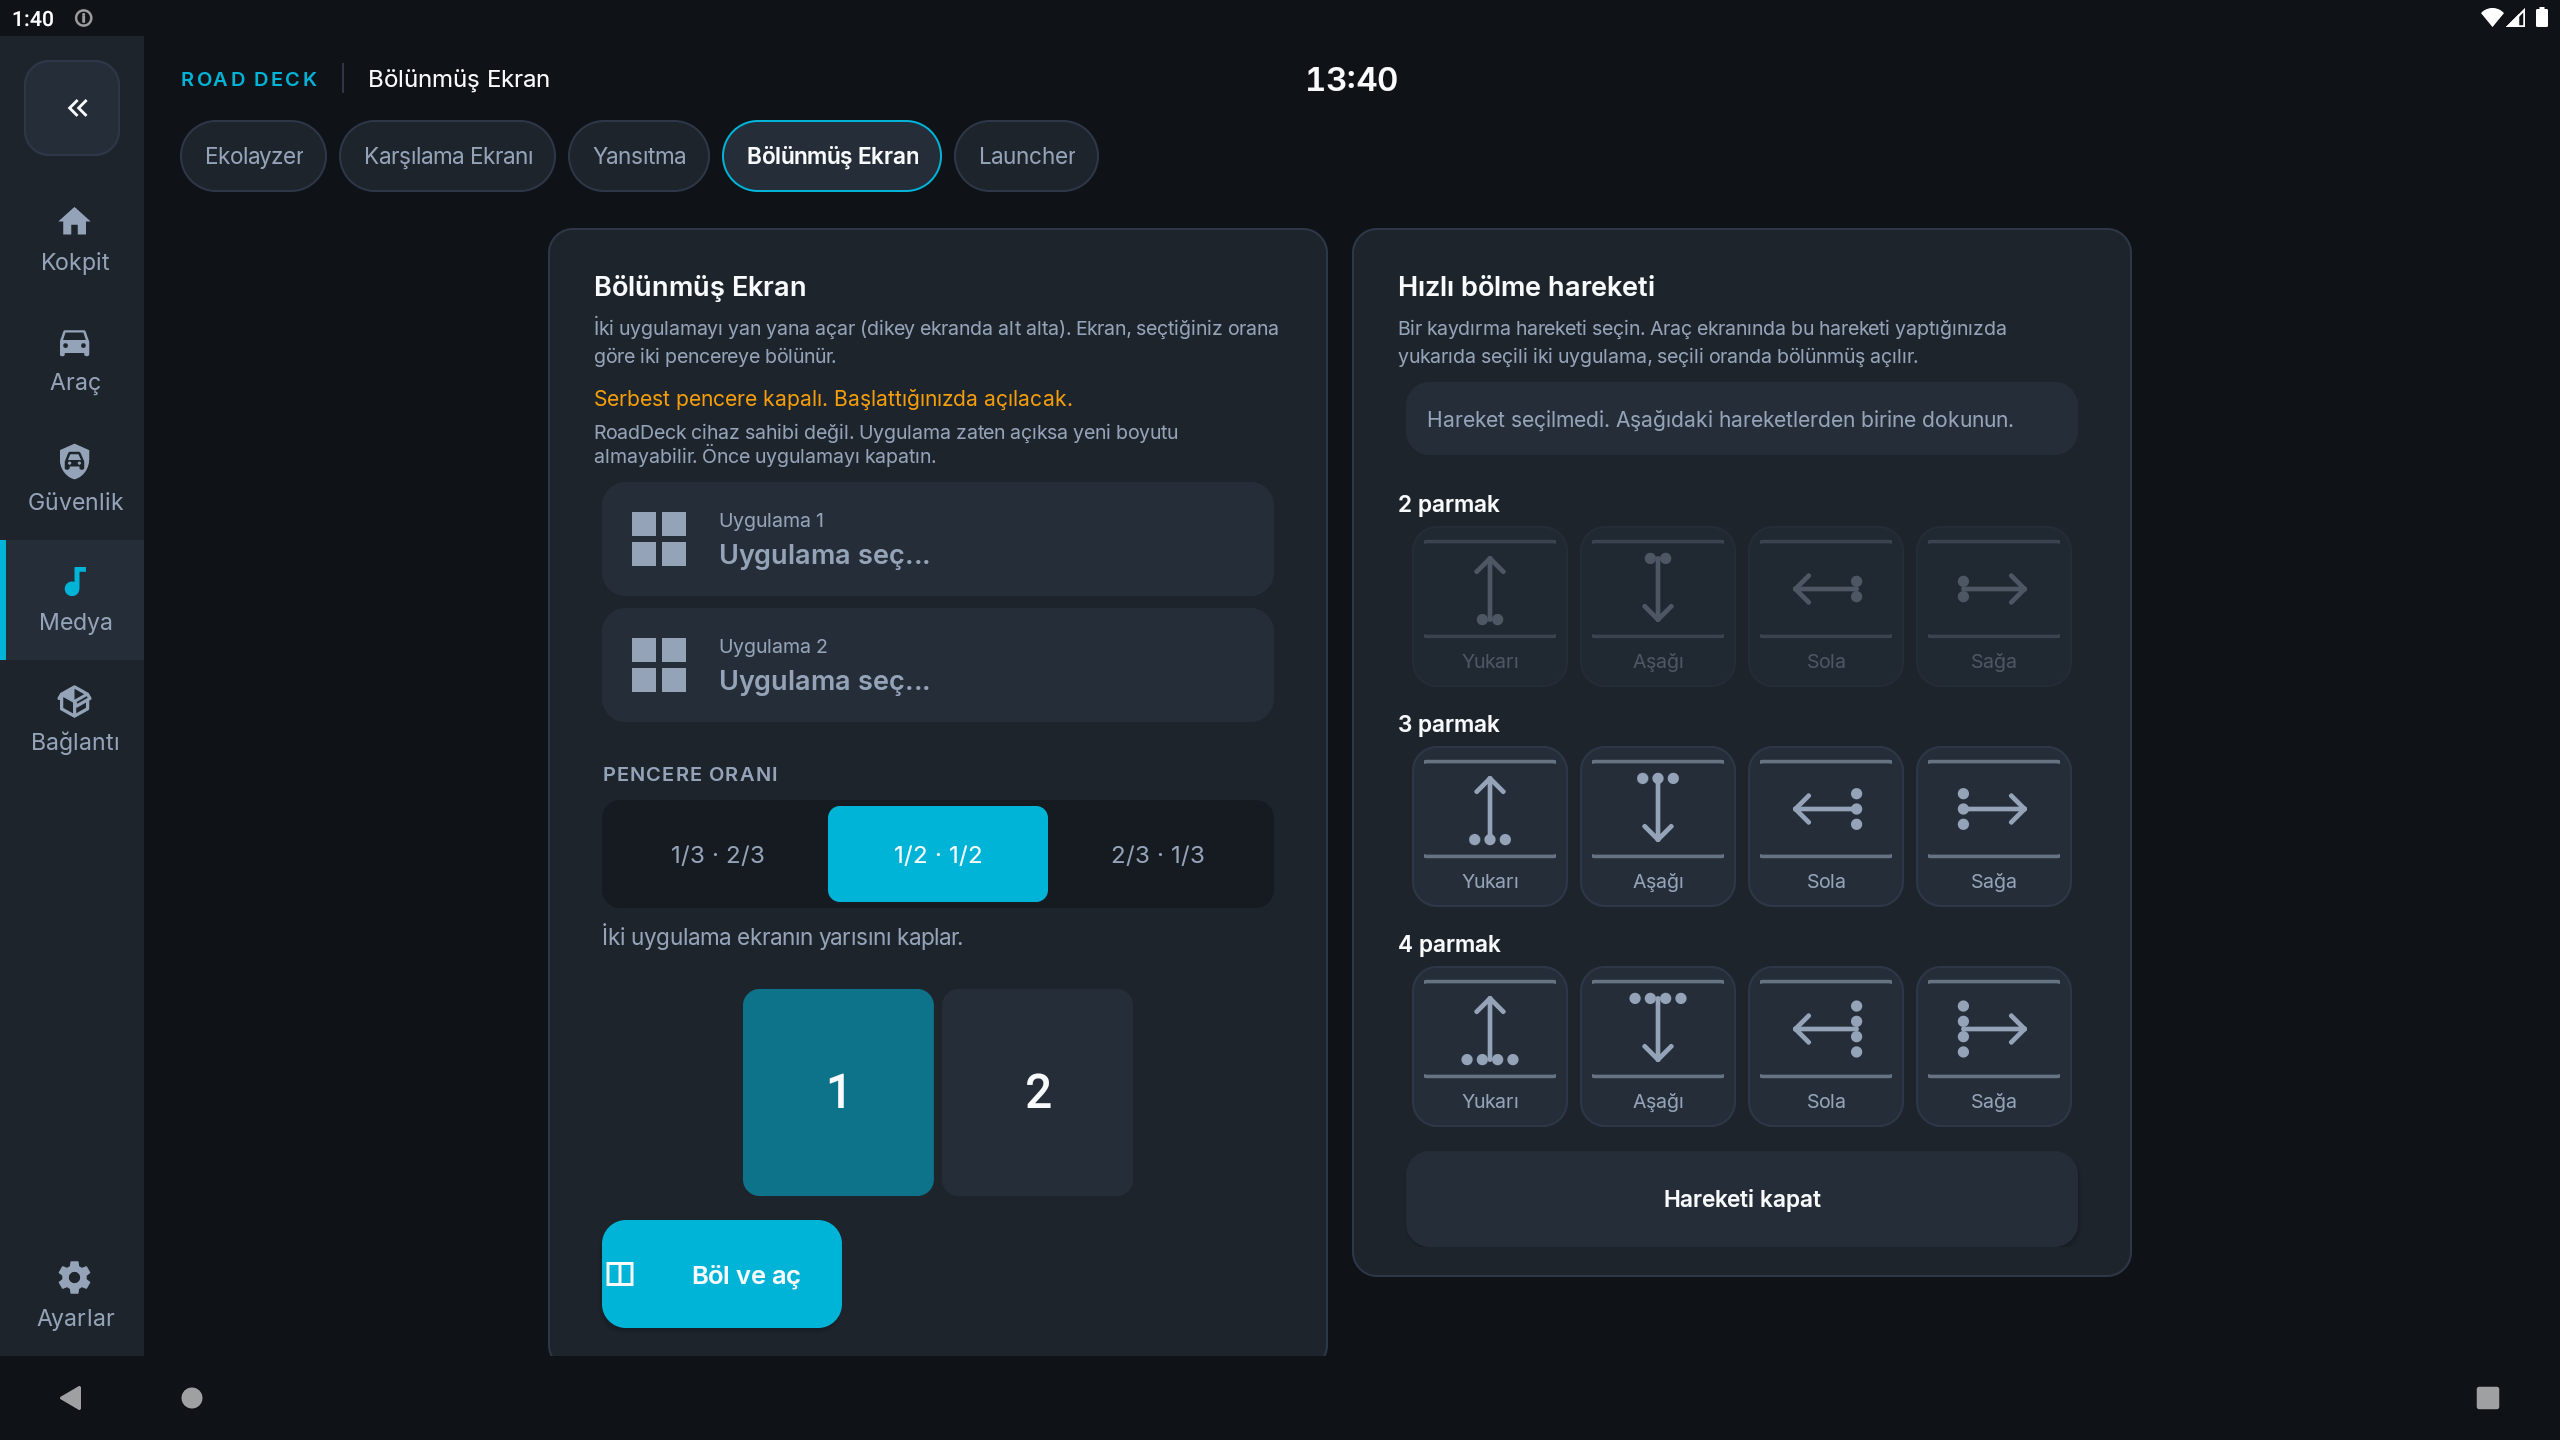
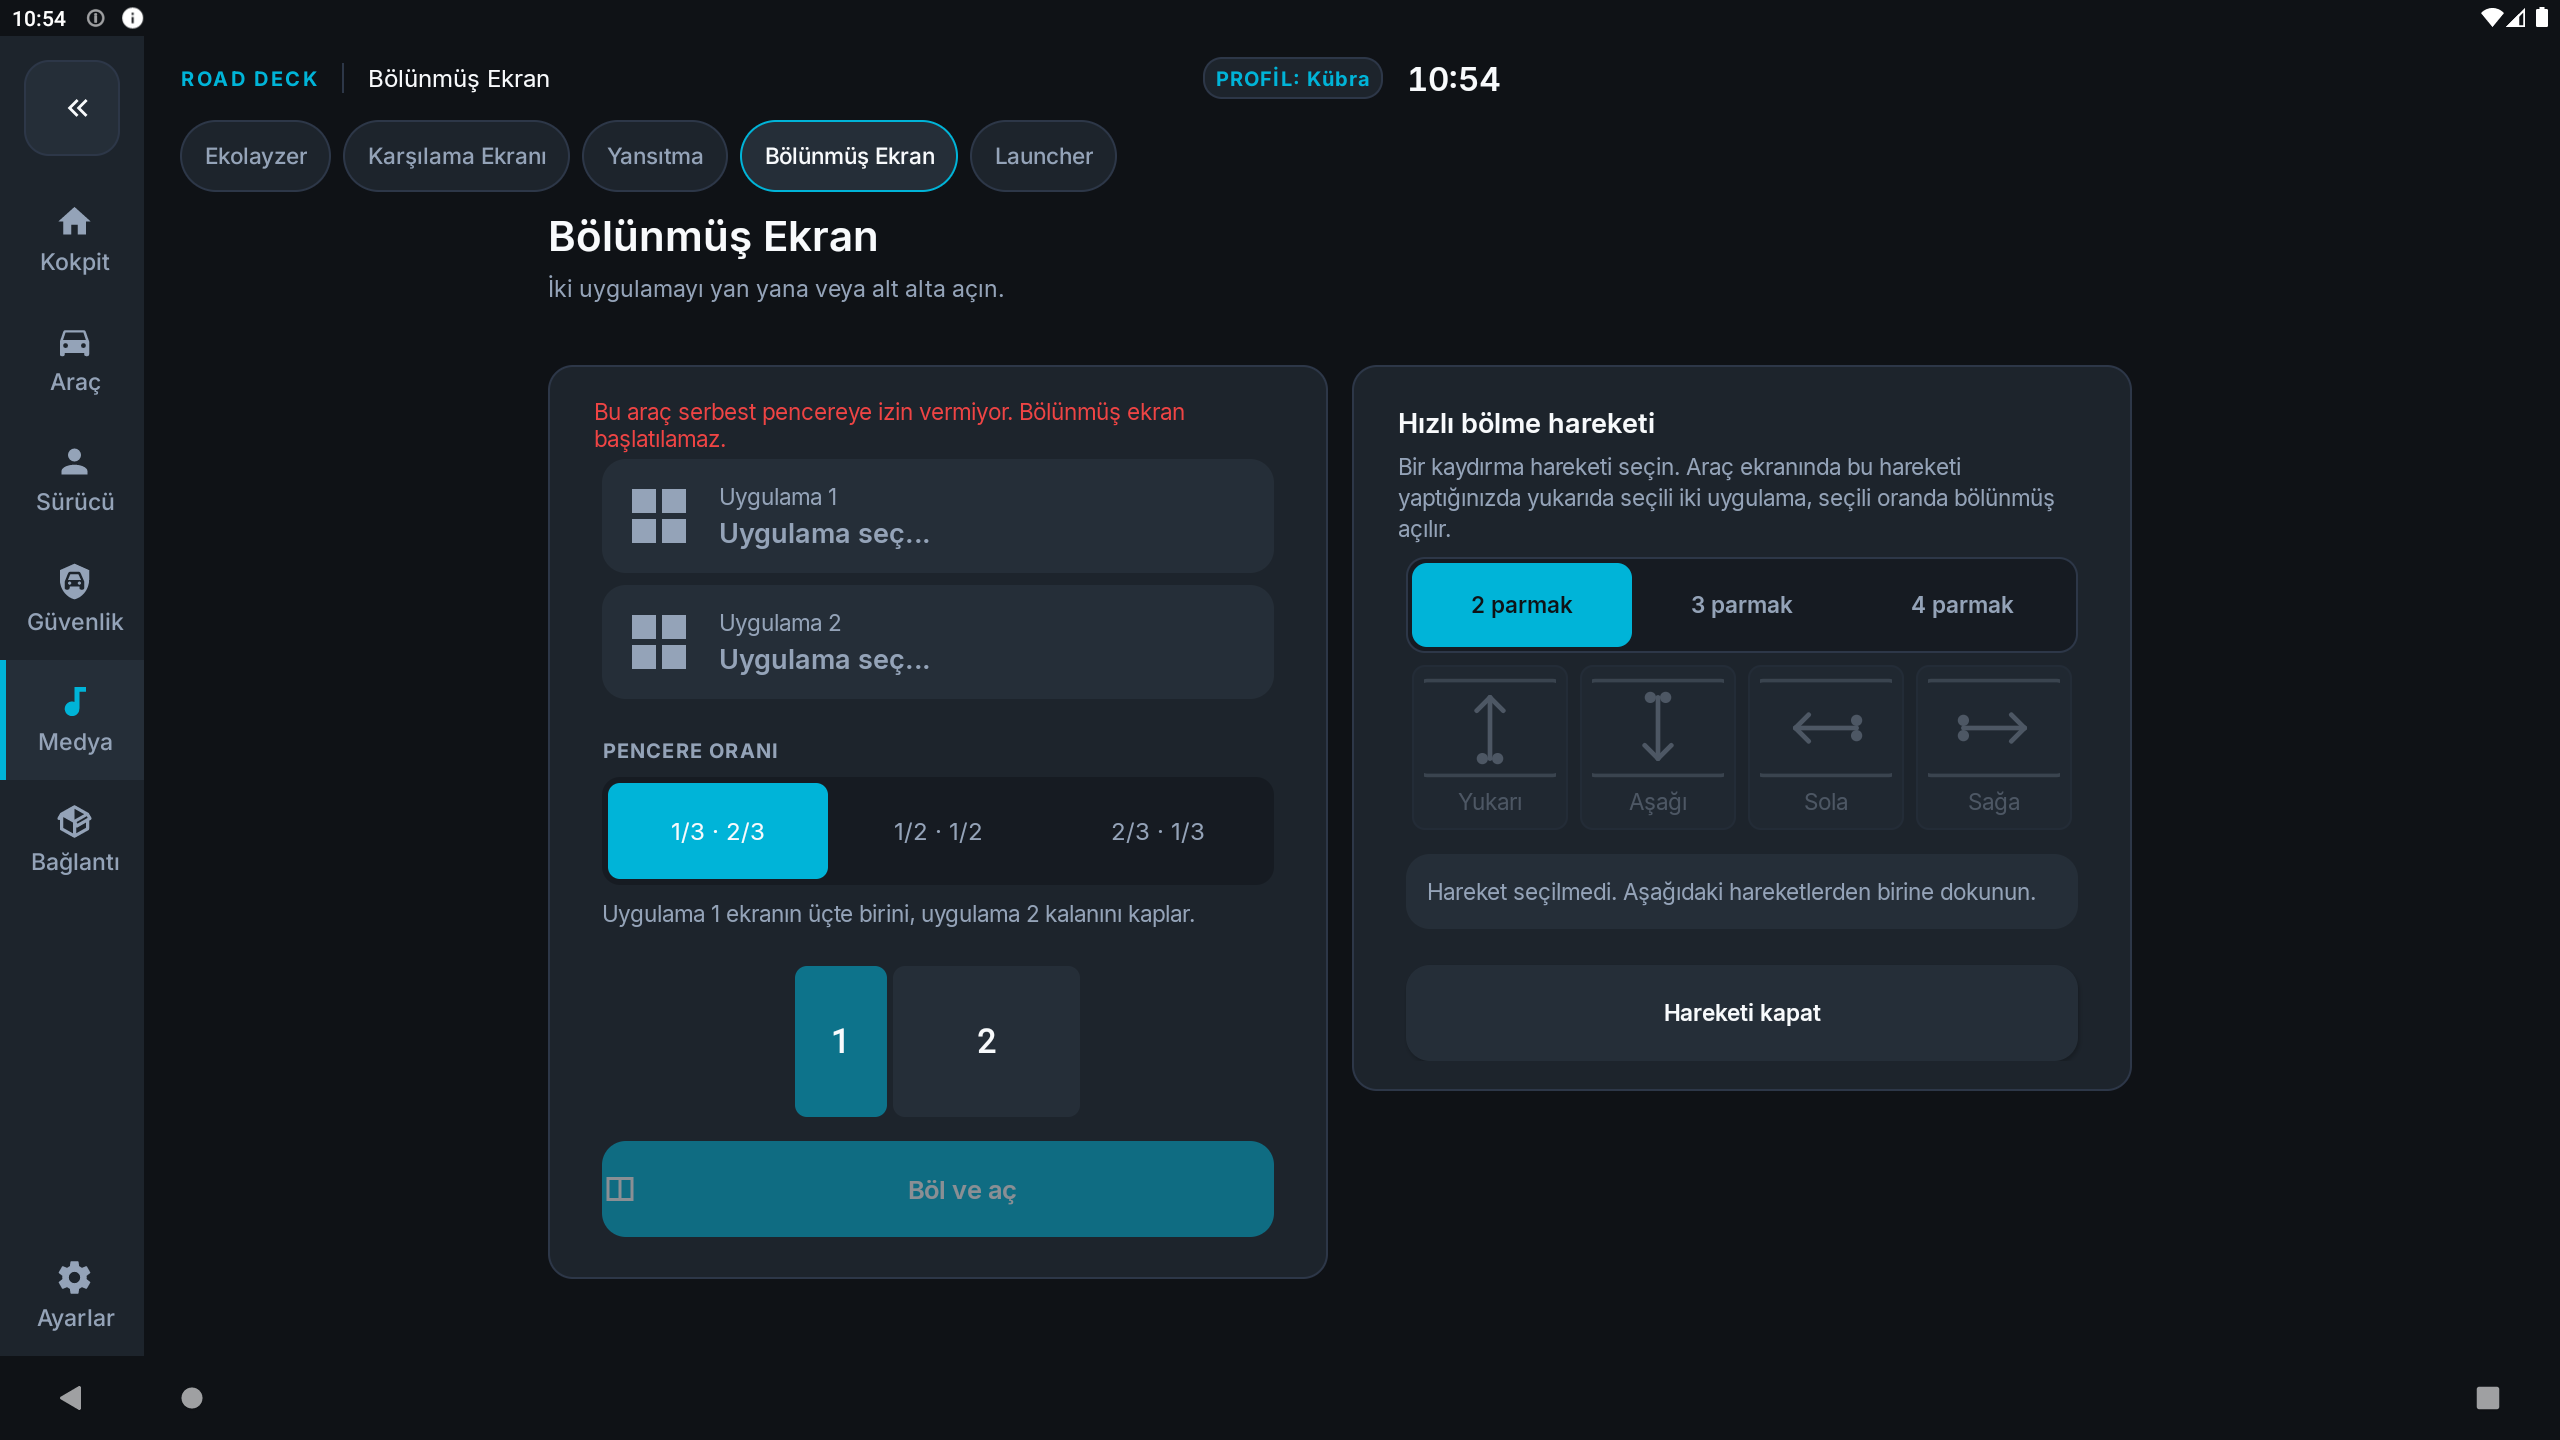
feat: bolunmus ekran ui denetimi ve duzeltmeleri
- CTA 64dp ve tam genislikte, desteklenmeyen cihazda devre disi
- Tekrarlanan kart basligi/aciklamasi kaldirildi
- Hareket matrisi parmak sayisi segmentine indirildi
- 15sp alti metinler ve ratio preview boyutu duzeltildi

diff --git a/app/src/main/java/com/mapcontrol/ui/builder/SplitScreenTabBuilder.java b/app/src/main/java/com/mapcontrol/ui/builder/SplitScreenTabBuilder.java
@@ -17,6 +17,7 @@ import androidx.core.graphics.ColorUtils;
 
 import com.mapcontrol.R;
 import com.mapcontrol.ui.cockpit.CockpitGrid;
+import com.mapcontrol.ui.cockpit.CockpitSegmented;
 import com.mapcontrol.ui.cockpit.CockpitSurfaces;
 import com.mapcontrol.ui.cockpit.CockpitTokens;
 import com.mapcontrol.ui.theme.UiStyles;
@@ -55,6 +56,9 @@ public class SplitScreenTabBuilder {
     private TextView[] appNames = new TextView[2];
     private SplitRatioView ratioPreview;
     private LinearLayout gestureInfo;
+    private LinearLayout gestureGridRow;
+    private CockpitSegmented fingerSegmented;
+    private int activeFingerCount = 2;
     private final List<GestureCell> gestureCells = new ArrayList<>();
     private boolean starting;
 
@@ -111,16 +115,13 @@ public class SplitScreenTabBuilder {
         LinearLayout left = createSectionCard();
         LinearLayout right = createSectionCard();
 
-        addSectionTitle(left, R.string.split_title, 8);
-        addSectionDesc(left, R.string.split_desc);
-
         statusText = new TextView(context);
-        statusText.setTextSize(14);
+        statusText.setTextSize(15);
         statusText.setTypeface(CockpitTokens.inter(context, CockpitTokens.WEIGHT_MEDIUM));
         statusText.setPadding(16, 0, 16, 4);
         left.addView(statusText, matchWrap());
         noteText = new TextView(context);
-        noteText.setTextSize(13);
+        noteText.setTextSize(15);
         noteText.setTextColor(UiStyles.color(context, R.color.textHint));
         noteText.setPadding(16, 0, 16, 12);
         left.addView(noteText, matchWrap());
@@ -131,6 +132,10 @@ public class SplitScreenTabBuilder {
         addRatioSection(left);
         addStartButton(left);
 
+        int savedGesture = SplitScreenStore.getGestureCode(context);
+        if (SplitScreenGesture.isValid(savedGesture)) {
+            activeFingerCount = SplitScreenGesture.fingersOf(savedGesture);
+        }
         addGestureSection(right);
         grid.add(left, 4);
         grid.add(right, 4);
@@ -172,6 +177,17 @@ public class SplitScreenTabBuilder {
         } else {
             noteText.setVisibility(View.GONE);
         }
+        updateStartEnabled();
+    }
+
+    private void updateStartEnabled() {
+        if (startButton == null) {
+            return;
+        }
+        SplitScreenLauncher.Capability cap = SplitScreenLauncher.probe(context);
+        boolean supported = cap.usable() || cap.canEnableFreeform;
+        startButton.setEnabled(supported);
+        startButton.setAlpha(supported ? 1f : 0.5f);
     }
 
     // ------------------------------------------------------------- uygulamalar
@@ -202,7 +218,7 @@ public class SplitScreenTabBuilder {
 
         TextView slotLabel = new TextView(context);
         slotLabel.setText(slot == 0 ? R.string.split_app1 : R.string.split_app2);
-        slotLabel.setTextSize(13);
+        slotLabel.setTextSize(15);
         slotLabel.setTextColor(UiStyles.color(context, R.color.textSecondary));
         texts.addView(slotLabel, matchWrap());
 
@@ -324,7 +340,7 @@ public class SplitScreenTabBuilder {
 
         float density = context.getResources().getDisplayMetrics().density;
         LinearLayout.LayoutParams lp = new LinearLayout.LayoutParams(
-                Math.round(260 * density), LinearLayout.LayoutParams.WRAP_CONTENT);
+                Math.round(190 * density), Math.round(64 * density));
         lp.gravity = Gravity.CENTER_HORIZONTAL;
         lp.setMargins(0, UiStyles.dimenPx(context, R.dimen.spacing_small), 0,
                 UiStyles.dimenPx(context, R.dimen.spacing_medium));
@@ -354,11 +370,12 @@ public class SplitScreenTabBuilder {
                 UiStyles.color(context, R.color.textPrimary),
                 UiStyles.dimenPx(context, R.dimen.spacing_small));
         startButton.setOnClickListener(v -> onStartClicked());
+        updateStartEnabled();
         startButton.setMinWidth(CockpitTokens.dim(context, R.dimen.ck_action_min_w));
         startButton.setMaxWidth(CockpitTokens.dim(context, R.dimen.ck_action_max_w));
         LinearLayout.LayoutParams lp = new LinearLayout.LayoutParams(
-                LinearLayout.LayoutParams.WRAP_CONTENT,
-                UiStyles.dimenPx(context, R.dimen.ck_touch_primary));
+                LinearLayout.LayoutParams.MATCH_PARENT,
+                UiStyles.dimenPx(context, R.dimen.ck_touch_min));
         int h = CockpitTokens.dim(context, R.dimen.ck_space_md);
         lp.setMargins(h, 0, h, CockpitTokens.dim(context, R.dimen.ck_space_sm));
         parent.addView(startButton, lp);
@@ -405,32 +422,40 @@ public class SplitScreenTabBuilder {
         addSectionTitle(parent, R.string.split_gesture_title, 8);
         addSectionDesc(parent, R.string.split_gesture_desc);
 
+        List<String> fingerLabels = new ArrayList<>();
+        for (int fingers : SplitScreenGesture.FINGER_COUNTS) {
+            fingerLabels.add(context.getString(R.string.split_gesture_row_fingers, fingers));
+        }
+        int initialIndex = 0;
+        for (int i = 0; i < SplitScreenGesture.FINGER_COUNTS.length; i++) {
+            if (SplitScreenGesture.FINGER_COUNTS[i] == activeFingerCount) {
+                initialIndex = i;
+                break;
+            }
+        }
+        fingerSegmented = new CockpitSegmented(context, fingerLabels, initialIndex, index -> {
+            activeFingerCount = SplitScreenGesture.FINGER_COUNTS[index];
+            renderGestureRow();
+            refreshGestureUi();
+        });
+        LinearLayout.LayoutParams segmentedLp = matchWrap();
+        int h = UiStyles.dimenPx(context, R.dimen.spacing_medium);
+        segmentedLp.setMargins(h, 0, h, UiStyles.dimenPx(context, R.dimen.spacing_small));
+        parent.addView(fingerSegmented, segmentedLp);
+
+        gestureGridRow = new LinearLayout(context);
+        gestureGridRow.setOrientation(LinearLayout.HORIZONTAL);
+        LinearLayout.LayoutParams rowLp = matchWrap();
+        rowLp.setMargins(h, 0, h, UiStyles.dimenPx(context, R.dimen.spacing_medium));
+        parent.addView(gestureGridRow, rowLp);
+
         gestureInfo = new LinearLayout(context);
         gestureInfo.setOrientation(LinearLayout.VERTICAL);
-        int h = UiStyles.dimenPx(context, R.dimen.spacing_medium);
         LinearLayout.LayoutParams infoLp = matchWrap();
         infoLp.setMargins(h, 0, h, UiStyles.dimenPx(context, R.dimen.spacing_medium));
         parent.addView(gestureInfo, infoLp);
 
-        for (int fingers : SplitScreenGesture.FINGER_COUNTS) {
-            TextView header = new TextView(context);
-            header.setText(context.getString(R.string.split_gesture_row_fingers, fingers));
-            header.setTextSize(15);
-            header.setTypeface(null, Typeface.BOLD);
-            header.setTextColor(UiStyles.color(context, R.color.textPrimary));
-            header.setPadding(16, 8, 16, 6);
-            parent.addView(header, matchWrap());
-
-            LinearLayout row = new LinearLayout(context);
-            row.setOrientation(LinearLayout.HORIZONTAL);
-            LinearLayout.LayoutParams rowLp = matchWrap();
-            rowLp.setMargins(h, 0, h, UiStyles.dimenPx(context, R.dimen.spacing_small));
-            parent.addView(row, rowLp);
-
-            for (int direction : SplitScreenGesture.DIRECTIONS) {
-                addGestureCell(row, SplitScreenGesture.code(fingers, direction));
-            }
-        }
+        renderGestureRow();
 
         Button off = new Button(context);
         off.setText(R.string.split_gesture_off);
@@ -452,6 +477,17 @@ public class SplitScreenTabBuilder {
         refreshGestureUi();
     }
 
+    private void renderGestureRow() {
+        if (gestureGridRow == null) {
+            return;
+        }
+        gestureGridRow.removeAllViews();
+        gestureCells.clear();
+        for (int direction : SplitScreenGesture.DIRECTIONS) {
+            addGestureCell(gestureGridRow, SplitScreenGesture.code(activeFingerCount, direction));
+        }
+    }
+
     private void addGestureCell(LinearLayout row, int code) {
         float density = context.getResources().getDisplayMetrics().density;
         LinearLayout cell = new LinearLayout(context);
@@ -471,7 +507,7 @@ public class SplitScreenTabBuilder {
 
         TextView label = new TextView(context);
         label.setText(directionLabel(SplitScreenGesture.directionOf(code)));
-        label.setTextSize(13);
+        label.setTextSize(15);
         label.setGravity(Gravity.CENTER);
         LinearLayout.LayoutParams labelLp = matchWrap();
         labelLp.topMargin = Math.round(4 * density);
@@ -593,7 +629,7 @@ public class SplitScreenTabBuilder {
         TextView how = new TextView(context);
         how.setText(context.getString(R.string.split_gesture_how, fingers,
                 directionPhrase(direction)));
-        how.setTextSize(14);
+        how.setTextSize(15);
         how.setTextColor(UiStyles.color(context, R.color.textPrimary87));
         how.setLineSpacing(3, 1.05f);
         how.setPadding(0, Math.round(6 * density), 0, 0);
@@ -601,7 +637,7 @@ public class SplitScreenTabBuilder {
 
         TextView where = new TextView(context);
         where.setText(R.string.split_gesture_where);
-        where.setTextSize(13);
+        where.setTextSize(15);
         where.setTextColor(UiStyles.color(context, R.color.textHint));
         where.setLineSpacing(3, 1.05f);
         where.setPadding(0, Math.round(6 * density), 0, 0);
@@ -623,7 +659,7 @@ public class SplitScreenTabBuilder {
     private void addInfoWarning(String text) {
         TextView warn = new TextView(context);
         warn.setText(text);
-        warn.setTextSize(13);
+        warn.setTextSize(15);
         warn.setTypeface(null, Typeface.BOLD);
         warn.setTextColor(UiStyles.color(context, R.color.textLoading));
         warn.setPadding(0, Math.round(10 * context.getResources().getDisplayMetrics().density), 0, 0);
@@ -688,7 +724,7 @@ public class SplitScreenTabBuilder {
     private void addSectionDesc(LinearLayout parent, int textRes) {
         TextView desc = new TextView(context);
         desc.setText(textRes);
-        desc.setTextSize(13);
+        desc.setTextSize(15);
         desc.setTextColor(UiStyles.color(context, R.color.textHint));
         desc.setLineSpacing(3, 1.05f);
         desc.setPadding(16, 0, 16, 12);
